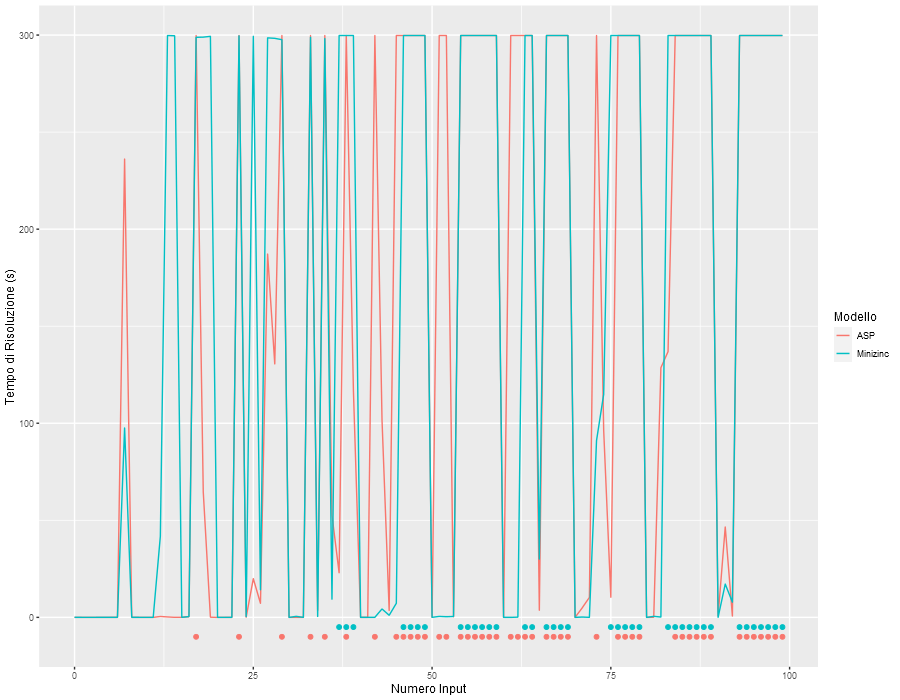
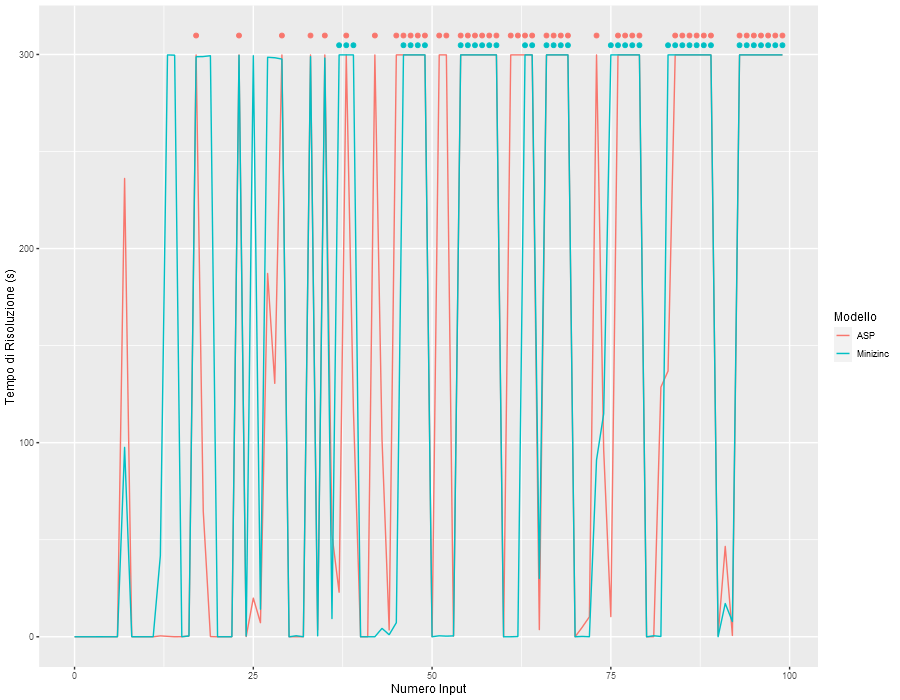
end relazione

Changed region(s): [[0.1244, 0.03, 0.8711, 0.93]]

diff --git a/covid19/doc/chapters/mzn_model.tex b/covid19/doc/chapters/mzn_model.tex
@@ -4,11 +4,11 @@
 
 \section{Minizinc}
 \subsection{Il modello}
-%In input vengono forniti
-%\lstinline{K, H, M, O, P, Q}
-Ad ogni stanza viene associato un intero partendo da 0 ed incrementando di 1.
-Il numero totale di stanze è $2*K*H$, perché abbiamo $K$ corridoi e per ciascun corridoio ci sono $H$ stanze per lato (sinistro o destro).
-Con questa numerazione ogni $K$ numeri si cambierà lato, mentre ogni $2*K$ numeri si indica un corridoio ad un piano superiore.
+Il modello riceve in input i valori $K$, $H$, $M$, $O$, $P$ e $Q$.
+I primi due indicano numero di corridoi e numero di stanze per lato, mentre i restanti il numero di ospiti per ogni tipo (anche zero per alcuni).
+Si suppone $M \geq 1$ altrimenti ogni assegnamento di stanza sarebbe lecito, purché ci sia un numero sufficiente di stanze.
+Nella codifica utilizzata nel modello ad ogni stanza viene associato un intero partendo da 0 ed incrementando di 1 fino a raggiungere il numero totale di stanze, cioè $2*K*H$, perché abbiamo $K$ corridoi e per ciascun corridoio ci sono $H$ stanze per lato (sinistro o destro).
+Con questa numerazione ogni $K$ numeri si cambia lato, mentre ogni $2*K$ numeri si indica un corridoio ad un piano superiore.
 La numerazione permette di modellare abbastanza facilmente le relazioni spaziali tra stanze,
 ad esempio:
 le prime $H$ stanze appartengono al lato sinistro del primo corridoio;
@@ -21,23 +21,23 @@ lastline = 16
 
 \noindent
 Le limitazioni sul numero di ospiti per stanza sono date dai seguenti vincoli.
-Notare come questa modellazione permette di usare \emph{alldifferent} sui numeri stanze degli ospiti in osservazione.
+Notare come questa modellazione permette di usare \emph{alldifferent} sui numeri delle stanze degli ospiti in osservazione.
 \lstinputlisting[
 firstline= 19,
 lastline = 50
 ]{./code/covid19.mzn}
 
 \noindent
-La relazione di \emph{Vicinato 1} verifica se due stanze sono adiacenti per una delle cinque direzioni (sopra, sotto, destra, sinistra e di fronte).
+La relazione di \emph{Vicinato 1} verifica se due stanze sono adiacenti secondo una delle cinque direzioni: sopra, sotto, destra, sinistra e di fronte.
 \lstinputlisting[
 firstline= 53,
 lastline = 77
 ]{./code/covid19.mzn}
 
 \noindent
-Due camere sono a distanza \emph{Vicinato 2} se condividono una camera a distanza \emph{Vicinato 1}.
-In pratica, presa una camera, un elemento nel suo \emph{Vicinato 2} può essere raggiunto in due passi selezionando prima un \emph{Vicinato 1} adeguato e poi un \emph{Vicinato 1} della camera appena selezionata.
-Nel vincolo si richiede l'esistenza di questa terza camera che faccia da ``perno'' per lo spostamento.
+Due stanze sono a distanza \emph{Vicinato 2} se condividono una stanza a distanza \emph{Vicinato 1}.
+In pratica, presa una stanza, un elemento nel suo \emph{Vicinato 2} può essere raggiunto in due passi selezionando prima un \emph{Vicinato 1} adeguato e poi un \emph{Vicinato 1} della stanza appena selezionata.
+Nel vincolo si richiede l'esistenza di questa terza stanza che faccia da ``perno'' per lo spostamento.
 %\emph{Vicinato 2} viene soddisfatto se esiste una terza stanza su cui fare ``perno'' in \emph{Vicinato 1} con entrambe le stanze considerate
 \lstinputlisting[
 firstline= 80,
@@ -74,9 +74,9 @@ lastline = 159
 
 %\cleardoublepage
 \subsection{\emph{Symmetry Breaking}}
-Osservando che le camere all'inizio ed alla fine dei corridoi hanno un numero inferiore di camere in \emph{Vicinato 1} (e quindi anche in \emph{Vicinato 2}), risulta sensato fissare il primo malato nella prima stanza disponibile, ossia nella prima stanza del primo corridoio.
+Osservando che le stanze all'inizio ed alla fine dei corridoi hanno un numero inferiore di stanze in \emph{Vicinato 1} (e quindi anche in \emph{Vicinato 2}), risulta sensato fissare il primo malato nella prima stanza disponibile, ossia nella prima stanza del primo corridoio.
 Inoltre, poiché non ci sono differenze tra malati dello stesso tipo è possible fissare un ordinamento arbitrario.
-In questo caso ad ospiti con un indice inferiore vengono assegnate camera ai piani più bassi.
+In questo caso ad ospiti con un indice inferiore vengono assegnate stanze ai piani più bassi.
 \lstinputlisting[
 firstline= 103,
 lastline = 113

diff --git a/covid19/doc/chapters/analisi.tex b/covid19/doc/chapters/analisi.tex
@@ -12,15 +12,22 @@ In \autoref{fig:second_plot} si vede come il tempo totale di risoluzione degli i
 Notare come in genere il modello Minizinc sia migliore del modello ASP.
 I pallini indicano se il modello è andato in timeout.
 L'andamento del grafico è dato dal modo in cui sono stati generati gli input, quindi dal loro ordinamento: durante la generazione venivano effettuati due cicli for annidati uno per il numero di corridoi ed uno per il numero di stanze.
-Quindi, come ci si può aspettare, la complessità dell'istanza cresce al crescere combinato di K ed H.
+Confrontando \autoref{fig:input_sizes}, \autoref{fig:second_plot} e \autoref{fig:first_plot} si osserva come l'andamento delle dimensioni degli input sia in linea con la complessità dell'istanza, misurata in tempo di risoluzione dei modelli.
+In \autoref{fig:first_plot} si può  osservare il tempo di risoluzione dei due modelli.
+I pallini indicano per quali istanze i modelli sono andati in timeout.
 \begin{figure}[ht]
   \centering
   \includegraphics[width=\textwidth]{second_plot}
   \caption{Input in ordine di numerazione}
   \label{fig:second_plot}
 \end{figure}
+\begin{figure}[ht]
+  \centering
+  \includegraphics[width=\textwidth]{input_sizes}
+  \caption{Dimensioni H e K degli input in ordine di numerazione}
+  \label{fig:input_sizes}
+\end{figure}
 
-In \autoref{fig:first_plot} si vede il tempo di risoluzione.
 \begin{figure}[ht]
   \centering
   \includegraphics[width=\textwidth]{first_plot}
@@ -29,6 +36,7 @@ In \autoref{fig:first_plot} si vede il tempo di risoluzione.
 \end{figure}
 \cleardoublepage
 
+\noindent
 Osservando soltanto le soluzioni per le quali non si è raggiunto il timeout ed ordinando secondo tempo totale di risoluzione del modello ASP si ottiene il grafico in \autoref{fig:no_timeout_times}.
 \begin{figure}[ht]
   \centering
@@ -36,7 +44,7 @@ Osservando soltanto le soluzioni per le quali non si è raggiunto il timeout ed 
   \caption{Input in ordine crescente di tempo totale per il modello ASP}
   \label{fig:no_timeout_times}
 \end{figure}
-Notare come in più occasioni un modello performa molto bene mentre l'altro ha difficoltà.
+Notare come in più occasioni, su uno stesso input, un modello performa molto bene mentre l'altro ha difficoltà.
 Una delle cause di questo fenomeno è il modo in cui il modello Minizinc cerca le soluzioni, cioè iniziando a collocare gli ospiti in quarantena nelle stane più lontane e dei piani più alti.
 Ciò non viene fatto nel modello ASP.
 Le osservazioni appena fatte valgono anche per il tempo di risoluzione, come si vede in \autoref{fig:no_timeout_solvetimes}.
@@ -46,3 +54,12 @@ Le osservazioni appena fatte valgono anche per il tempo di risoluzione, come si 
   \caption{Input in ordine crescente di tempo totale per il modello ASP}
   \label{fig:no_timeout_solvetimes}
 \end{figure}
+
+\noindent
+Confrontando i valori ottenuti dai due modelli si ha che
+\begin{itemize}
+  \item Minizinc batte sul tempo complessivo ASP 47 volte su 100;
+  \item Minizinc batte sul tempo di risoluzione ASP 30 volte su 100.
+\end{itemize}
+Possiamo quindi dire che i modelli hanno capacità confrontabili e che il tempo di grounding inficia in modo notevole sulle prestazioni del modello ASP.
+Infatti, considerando soltanto i tempi di risoluzione, il modello ASP è da preferirsi.

diff --git a/covid19/doc/chapters/lp_model.tex b/covid19/doc/chapters/lp_model.tex
@@ -11,7 +11,7 @@ Similmente a quanto visto per Minizinc, in \emph{covid19.lp} si ha una prima def
 \lstinputlisting[firstline= 7, lastline = 7]{./code/covid19.lp}
 
 \noindent
-Poiché gli ospiti devono essere assegnati esattamente ad una stanza, si definiscono i vincoli
+Poiché gli ospiti devono essere assegnati esattamente ad una stanza, si definisce il vincolo
 \lstinputlisting[
 firstline= 16,
 lastline = 16
@@ -24,7 +24,7 @@ in cui \emph{soggetto(P,T)} indica il numero identificativo $P$ associato ad un 
 I predicati vengono forniti nell'input e si suppone siano corretti, quindi non è possibile che un $P$ soddisfi la relazione con due $T$ differenti.
 \\
 \noindent
-Poiché le stanze hanno capacità limitate, che dipendono dal tipo di ospite, risulta necessario definire
+Poiché le stanze hanno capacità limitate, che dipendono dal tipo di ospite, risulta necessario definire i vincoli
 \lstinputlisting[
 firstline= 18,
 lastline = 25
@@ -50,7 +50,7 @@ lastline = 51
 
 \noindent
 Due camere sono a distanza \emph{Vicinato 2} se condividono una camera a distanza \emph{Vicinato 1}.
-Diversamente da quanto fatto in Minizinc, qui è stato definito un vincolo per ciascuno dei $12$ possibili vicini 2 di una stanza, considerando soltanto le stanze coppie di stanze contenenti malati od ospiti in quarantena.
+Diversamente da quanto fatto in Minizinc, qui è stato definito un vincolo per ciascuno dei $12$ possibili vicini 2 di una stanza, considerando soltanto le coppie di stanze contenenti malati od ospiti in quarantena.
 Nei listati seguenti sono riportati due vincoli di questo tipo
 \lstinputlisting[
 firstline= 90,
@@ -70,11 +70,11 @@ lastline = 235
 ]{./code/covid19.lp}
 
 \subsection{\emph{Symmetry Breaking}}
-Come nel modello Minizinc, il primo malato viene assegnato alla prima stanze e viene fissato un ordinamento arbitrario.
+Come nel modello Minizinc, il primo malato viene assegnato alla prima stanza e viene fissato un ordinamento arbitrario.
 \lstinputlisting[
 firstline= 229,
 lastline = 232
 ]{./code/covid19.lp}
 
-\todo[inline]{commentare la configurazione migliore}
-tweety
+%\todo[inline]{commentare la configurazione migliore}
+%tweety

diff --git a/covid19/doc/chapters/infrastruttura.tex b/covid19/doc/chapters/infrastruttura.tex
@@ -48,7 +48,7 @@ Eseguendo \lstinline{python run.py} verranno create due cartelle, una per modell
 }
 \end{lstlisting}
 Infine, eseguendo il file \emph{in\_out\_visualizer.py} è possibile scorrere tra le soluzioni prodotte dai due modelli.
-In \autoref{fig:esempio_2} sì può vedere il programma in esecuzione:
+In \autoref{fig:esempio_2} si può osservare il programma in esecuzione:
 a sinistra si ha la soluzione di Minizinc con rappresentazione grafica di camere e dei posti occupati;
 a destra il modello ASP non ha generato alcuna soluzione perché è andato in timeout;
 in basso si hanno informazioni riguardo all'input di partenza.
